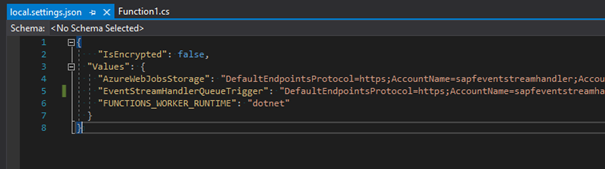
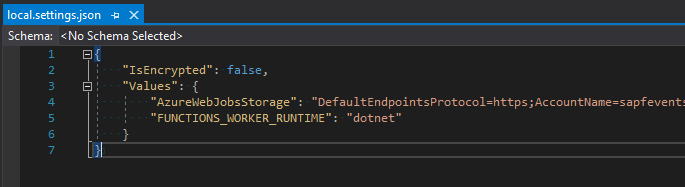
Updated Functions post

Changed region(s): [[0.0, 0.0, 1.0, 0.858], [0.0595, 0.5917, 0.0893, 0.8284], [0.0595, 0.4438, 0.0893, 0.4734]]

diff --git a/blog/Extend PlayFab with Azure Functions.md b/blog/Extend PlayFab with Azure Functions.md
@@ -7,14 +7,14 @@ As my teammate Andreas Pohl wrote in his article [Build vs. Buy - Which online s
 
 But now you need to extend it, and you want to use the full potential Azure can give you. What do you do?
 
-Extending Azure PlayFab with Azure Functions is the best way to do so. I will show you how you can extend PlayFab with Azure Functions. In this  post however, we will only use Azure Functions and Azure Storage to get started with the basics and not get into too much complexity.
+Extending Azure PlayFab with Azure Functions is the best way to do so. I will show you how you can extend PlayFab with Azure Functions. In this post however, we will only use Azure Functions and Azure Storage to get started with the basics and not get into too much complexity.
 
 ## Goal
-We will be using C# & .NET Core to create an Azure Function which is getting called every time a new Player registers.
+We will be using C# & .NET Core to create an Azure Function which is getting called every time a new Player registers, which is exposed via a [PlayStream Event](https://docs.microsoft.com/en-us/gaming/playfab/features/automation/playstream-events/).
 
 This Azure Function will then add "User Data" to this new Player.
 
-> Title User Data is title-specific custom data for the user which is readable and writable by the client. But you can of course set this via the Server as well.
+> Title User Data is title-specific custom data for the user which is readable and writable by the client. But you can of course set this via the Server as well. Player Data and User Data are terms used interchangeable within PlayFab terminology. Please refer to the [documentation](https://docs.microsoft.com/en-us/gaming/playfab/features/data/playerdata/quickstart) for more information.
 
 ## Prerequisites
 
@@ -70,11 +70,11 @@ Click "Create" when you have filled all fields and created a resource group.
 
 ![Create storage account](images/VisualStudio-NewProject-NewStorageAccount-2.png)
 
-Now back to the Storage Account select screen, select the Storage Accoutn you just created and click "Add".
+Now back to the Storage Account select screen, select the one you just created and click "Add".
 
 ![Add storage account config](images/VisualStudio-NewProject-NewStorageAccount-3.png)
 
-The storage accoutn should now appear in the drop-down, beneath "Storage Emulator" and "Browse...". Select it.
+The Storage Account should now appear in the drop-down, beneath "Storage Emulator" and "Browse...". Select it.
 
 I would advise to leave "Connection string setting name" empty for now. Using this would create a new setting and would be a bit confusing for now.
 
@@ -84,13 +84,47 @@ Just call it `login-events` for now.
 
 ![Set up storage settings](images/VisualStudio-NewProject-4-1.png)
 
-Once you are done setting up the Storage Account configuration, click the “Create” button and wait for the project to generate. Visual Studio will eventually open the project and show you the code of the generated Azure Function stub.
+Once you are done setting up the Storage Account configuration, click the “Create” button and wait for the project to generate. Visual Studio will eventually open the project and show you the code of the generated Azure Function stub (your namespace name may vary):
 
-![View of scaffold code in Visual Studio](images/VisualStudio-NewProject-5.png)
+    using System;
+    using Microsoft.Azure.WebJobs;
+    using Microsoft.Azure.WebJobs.Host;
+    using Microsoft.Extensions.Logging;
+    
+    namespace PlayFabEventStreamHandler
+    {
+        public static class Function1
+        {
+            [FunctionName("Function1")]
+            public static void Run([QueueTrigger("login-events", Connection = "")]string myQueueItem, ILogger log)
+            {
+                log.LogInformation($"C# Queue trigger function processed: {myQueueItem}");
+            }
+        }
+    }
 
-While asking for a Connection string setting in the dialog, Visual Studio only adds this setting name as the Connection property for the `QueueTrigger`, but does not add it to the `local.settings.json`. This should usually be the connection string that appears as `AzureWebJobsStorage` in the `local.settings.json` file:
 
-![Connection Strings](images/VisualStudio-local.settings.json.png)
+<!-- ![View of scaffold code in Visual Studio](images/VisualStudio-NewProject-5.png) -->
+
+> You might have noticed, that the Function was creatively named `Function1`, because Visual Studio just does not know what we what to do. Please rename the File, Class and the Function name in the Annotation as `PlayStreamEventHandler`.
+
+> Renaming is done easiest in Visual Studio by right-clicking the Class name in the code editor and selecting "Rename" (or just press F2). This will open a tiny dialog asking you where you want to replace. Select "Rename file" and "Include strings". This will make sure Class and File are renamed as well as the Attribute string.
+
+![Rename Function1](images/VisualStudio-RenameFile.png)
+
+While asking for a Connection string setting in the dialog, we did not give it a name. The reason is, that Visual Studio adds a connection string by default, called `AzureWebJobsStorage`. This is set in the `local.settings.json` config file:
+
+![Connection String](images/VisualStudio-local.settings.json.png)
+
+> `local.settings.json` is a config file *only* for local configuration. For deployed functions, you can either use the [Application Settings built into Azure Functions](https://docs.microsoft.com/en-us/azure/azure-functions/functions-how-to-use-azure-function-app-settings), or for more advanced scenarios, you could use [Azure App Config](https://docs.microsoft.com/en-us/azure/azure-app-configuration/overview).
+
+But because we did not give the connection setting a name earlier, there was no name set in the function. If you look closely at the Azure Function code, you can spot it in the Signature of the `Run` method. Look at the `Connection = ""` property of the `QueueTrigger` attribute:
+
+    public static void Run([QueueTrigger("login-events", Connection = "")]string myQueueItem, ILogger log)
+
+We just need to put in `AzureWebJobsStorage` instead of the empty string to load the right connection string:
+
+    public static void Run([QueueTrigger("login-events", Connection = "AzureWebJobsStorage")]string myQueueItem, ILogger log)
 
 ### Add the Azure PlayFab package
 The Azure PlayFab SDK for C# is available via NuGet. You can either add the latest version via the dotnet CLI
@@ -140,7 +174,7 @@ Once you are in the Title’s overview, click “Automation” (1), which opens 
 
 ![PlayFab: Functions listing](images/PlayFab-RegisterFunction-1.png)
 
-The Dialog is (sadly) not extremely informative, so let’s go through it.
+Let'S go through the individual settings for a registration:
 
 ![PlayFab: Registering an Azure Function with QueueTrigger](images/PlayFab-RegisterFunction-2.png)
 
@@ -156,7 +190,7 @@ To set up a Rule, within a PlayFab Title, go to *“Automation”* (1) in the le
 
 ![PlayFab: Adding a Rule](images/PlayFab-AddRule-1.png)
 
-A Rule is a configuration that listens on a *PlayStream* event emitted by Azure PlayFab. When such an event occurs, the Rule checks whether the configured Conditions are met and if they are, triggers the configured *Action*.
+A Rule is a configuration that listens on a [*PlayStream* event](https://docs.microsoft.com/en-us/gaming/playfab/features/automation/playstream-events/) emitted by Azure PlayFab. When such an event occurs, the Rule checks whether the configured Conditions are met and if they are, triggers the configured *Action*.
 
 In our case, we want no conditions, but want to “Execute Azure Function”. In fact, what it does, is calling its own internal binding we just set up and provides it the PlayStream event data and additional arguments you may specify here (in JSON format) as argument to that binding.
 
@@ -259,7 +293,7 @@ Every time a Function is triggered, The `Context` in which it was executed is se
 ### Parsing the Context
 We already receive the Context in the Function we have created, it is the `myQueueItem` parameter:
 
-        [FunctionName("Function1")]
+        [FunctionName("PlayStreamEventHandler")]
         public static void Run([QueueTrigger("login-events", Connection = "AzureWebJobsStorage")]string myQueueItem, ILogger log)
         {
             log.LogInformation($"C# Queue trigger function processed: {myQueueItem}");
@@ -271,7 +305,7 @@ To do this, we first need the Class to convert to. The easiest way to do this is
 
 Now, we can actually deserialize the Context to `PlayerPlayStreamFunctionExecutionContext`:
 
-        [FunctionName("Function1")]
+        [FunctionName("PlayStreamEventHandler")]
         public static void Run([QueueTrigger("login-events", Connection = "AzureWebJobsStorage")]string myQueueItem, ILogger log)
         {
             var context = JsonConvert.DeserializeObject<PlayerPlayStreamFunctionExecutionContext<dynamic>>(myQueueItem);
@@ -324,9 +358,9 @@ The function should now look like this:
 
     namespace PlayFabEventStreamHandler
     {
-        public static class Function1
+        public static class PlayStreamEventHandler
         {
-            [FunctionName("Function1")]
+            [FunctionName("PlayStreamEventHandler")]
             public static async Task Run([QueueTrigger("login-events", Connection = "AzureWebJobsStorage")] string myQueueItem, ILogger log)
             {
                 var context = JsonConvert.DeserializeObject<PlayerPlayStreamFunctionExecutionContext<dynamic>>(myQueueItem);
@@ -377,9 +411,9 @@ Your full function code should now look something like this:
     
     namespace PlayFabEventStreamHandler
     {
-        public static class Function1
+        public static class PlayStreamEventHandler
         {
-            [FunctionName("Function1")]
+            [FunctionName("PlayStreamEventHandler")]
             public static async Task Run([QueueTrigger("login-events", Connection = "AzureWebJobsStorage")] string myQueueItem, ILogger log)
             {
                 var context = JsonConvert.DeserializeObject<PlayerPlayStreamFunctionExecutionContext<dynamic>>(myQueueItem);
@@ -501,5 +535,4 @@ In this article, we learned about the different PlayFab APIs and it's "perspecti
 
 # Apendix
 ## Notes
-* It would be good practice to rename `Function1` to something sensible :-)
 * You might want to use [Azure Key Vault](https://azure.microsoft.com/en-us/services/key-vault/) for secrets instead of AppSettings, or [Azure Managed Identities](https://docs.microsoft.com/en-us/azure/app-service/overview-managed-identity?tabs=dotnet), for even more security.
